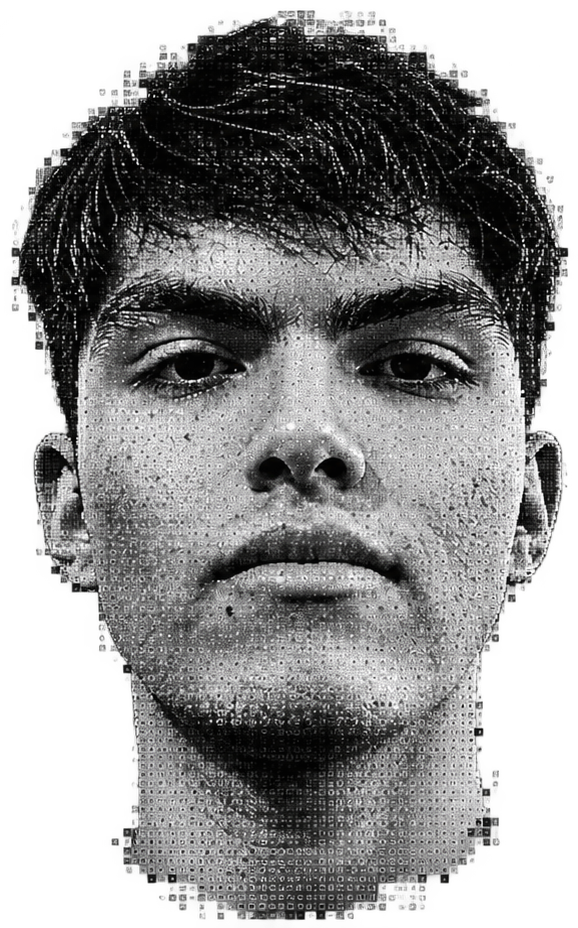
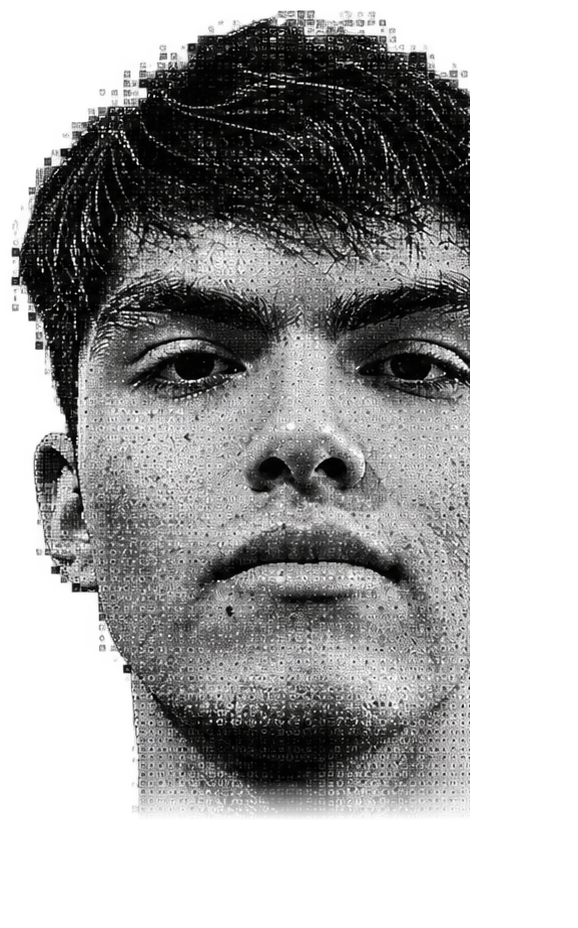
fix(mobile): prevent terminal prompt wrapping and eliminate lanyard photo glitch bars with full neck preservation

Changed region(s): [[0.1869, 0.0938, 0.9965, 1.0]]

diff --git a/src/legacy-styles.css b/src/legacy-styles.css
@@ -1588,18 +1588,23 @@ section > .section-header {
 .terminal-input-row {
   display: flex;
   align-items: center;
-  gap: 10px;
+  gap: 8px;
   margin-top: 6px;
+  flex-wrap: nowrap;
 }
 
 .terminal-prompt {
   color: var(--accent-blue);
   font-weight: 600;
   font-size: 0.88rem;
+  white-space: nowrap;
+  display: inline-block;
+  flex-shrink: 0;
 }
 
 .terminal-input {
   flex: 1;
+  min-width: 0;
   background: transparent;
   border: none;
   color: #f5f5f7;
@@ -3306,6 +3311,37 @@ body.sabotage-mode #terminal {
 
   .hero-actions .btn {
     width: 100%;
+  }
+
+  /* TERMINAL MOBILE POLISH */
+  .terminal-card {
+    border-radius: 16px;
+    margin: 0 auto;
+  }
+
+  .terminal-log {
+    padding: 12px 14px;
+    font-size: 0.76rem;
+    line-height: 1.5;
+  }
+
+  .terminal-prompt {
+    font-size: 0.76rem;
+    white-space: nowrap !important;
+  }
+
+  .terminal-input {
+    font-size: 0.76rem;
+  }
+
+  .terminal-quick-cmds {
+    padding: 10px 12px;
+    gap: 6px;
+  }
+
+  .quick-btn {
+    font-size: 0.72rem;
+    padding: 4px 8px;
   }
 }
 
